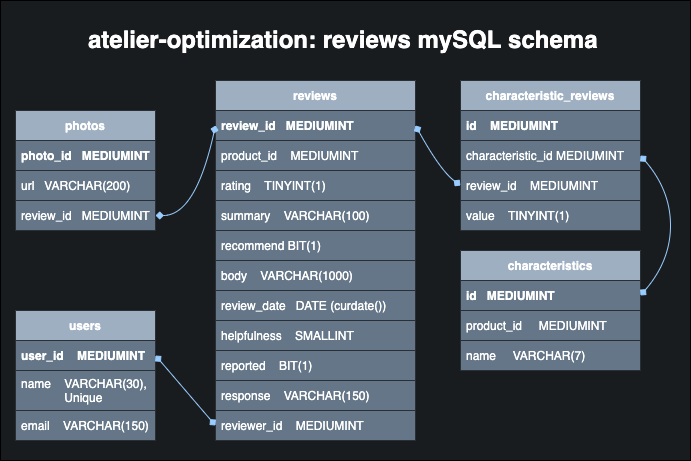
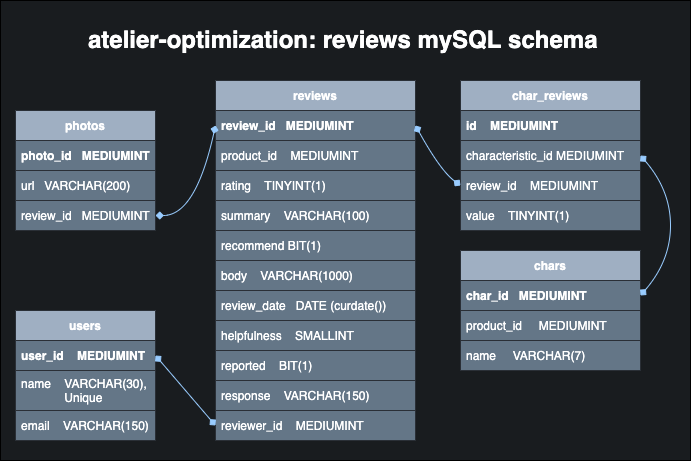
reviews/meta query complete

Changed region(s): [[0.6686, 0.5466, 0.8509, 0.6681], [0.699, 0.1822, 0.8813, 0.243]]

diff --git a/server/routes/meta.js b/server/routes/meta.js
@@ -3,12 +3,90 @@ const db = require('../../database');
 
 module.exports = {
   getMeta: (req, res) => {
-    const { review_id } = req.params;
-    const sql = '';
+    const { product_id } = req.query;
 
-    db.connection.query(sql, (error, results) => {
-      if (error) { res.status(400).send(error); }
-      res.status(204).send();
-    });
+    const sqlRecommend = `SELECT recommend FROM reviews
+      WHERE reviews.product_id = ${product_id}`;
+    const getRecommendCount = () => {
+      return new Promise((resolve, reject) => {
+        db.connection.query(sqlRecommend, (error, recommends) => {
+          if (error) { return reject(error); }
+
+          let falseCounter = 0;
+          let trueCounter = 0;
+          recommends.forEach((recommend) => {
+            recommend.recommend = 0 ? falseCounter++ : trueCounter++;
+          });
+          resolve({false: falseCounter, true: trueCounter});
+        });
+      });
+    };
+
+    const sqlRatings = `SELECT rating FROM reviews
+      WHERE reviews.product_id = ${product_id}`;
+    const buildRatings = () => {
+      return new Promise((resolve, reject) => {
+        db.connection.query(sqlRatings, (error, ratings) => {
+          if (error) { return reject(error); }
+
+          const ratingsObject = {};
+          ratings.forEach(({rating}) => {
+            if (!ratingsObject[rating]) {
+              ratingsObject[rating] = 1;
+            } else {
+              ratingsObject[rating] = ratingsObject[rating] + 1;
+            }
+          });
+          resolve(ratingsObject);
+        });
+      });
+    };
+
+    const sqlChararacteristics = `SELECT name, char_reviews.char_id, value
+      FROM char_reviews
+      INNER JOIN chars ON char_reviews.char_id = chars.char_id
+      WHERE chars.product_id = ${product_id}`;
+    const buildCharacteristics = () => {
+      return new Promise((resolve, reject) => {
+        db.connection.query(sqlChararacteristics, (error, characteristics) => {
+          if (error) { return reject(error); }
+
+          const charsObject = {};
+          characteristics.forEach(({ name, char_id, value }) => {
+            if (!charsObject[name]) {
+              charsObject[name] = {
+                id: char_id,
+                value: value,
+                count: 1
+              };
+            } else {
+              charsObject[name] = {
+                id: char_id,
+                value: ((charsObject[name].value * charsObject[name].count + value) / (charsObject[name].count + 1)).toFixed(4),
+                count: charsObject[name].count + 1
+              };
+            }
+          });
+          for (char in charsObject) {
+            delete charsObject[char].count;
+          }
+          resolve(charsObject);
+        });
+      });
+    };
+
+    Promise.all([ buildRatings(), getRecommendCount(), buildCharacteristics()])
+      .then(([ ratings, recommended, characteristics ]) => {
+
+        res.status(200).json({
+          product_id: product_id,
+          ratings: ratings,
+          recommended: recommended,
+          characteristics: characteristics
+        });
+      })
+      .catch((error) => {
+        throw error;
+      });
   }
 };
